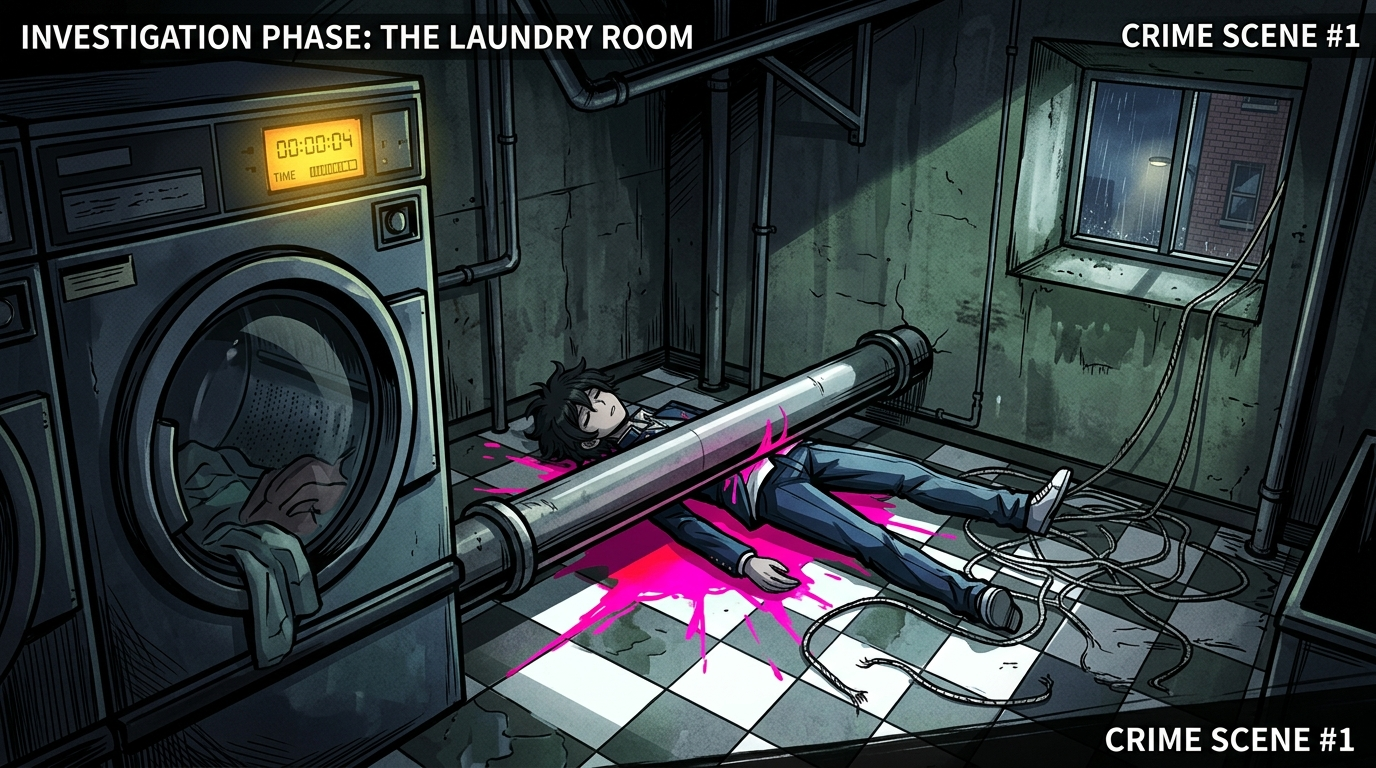
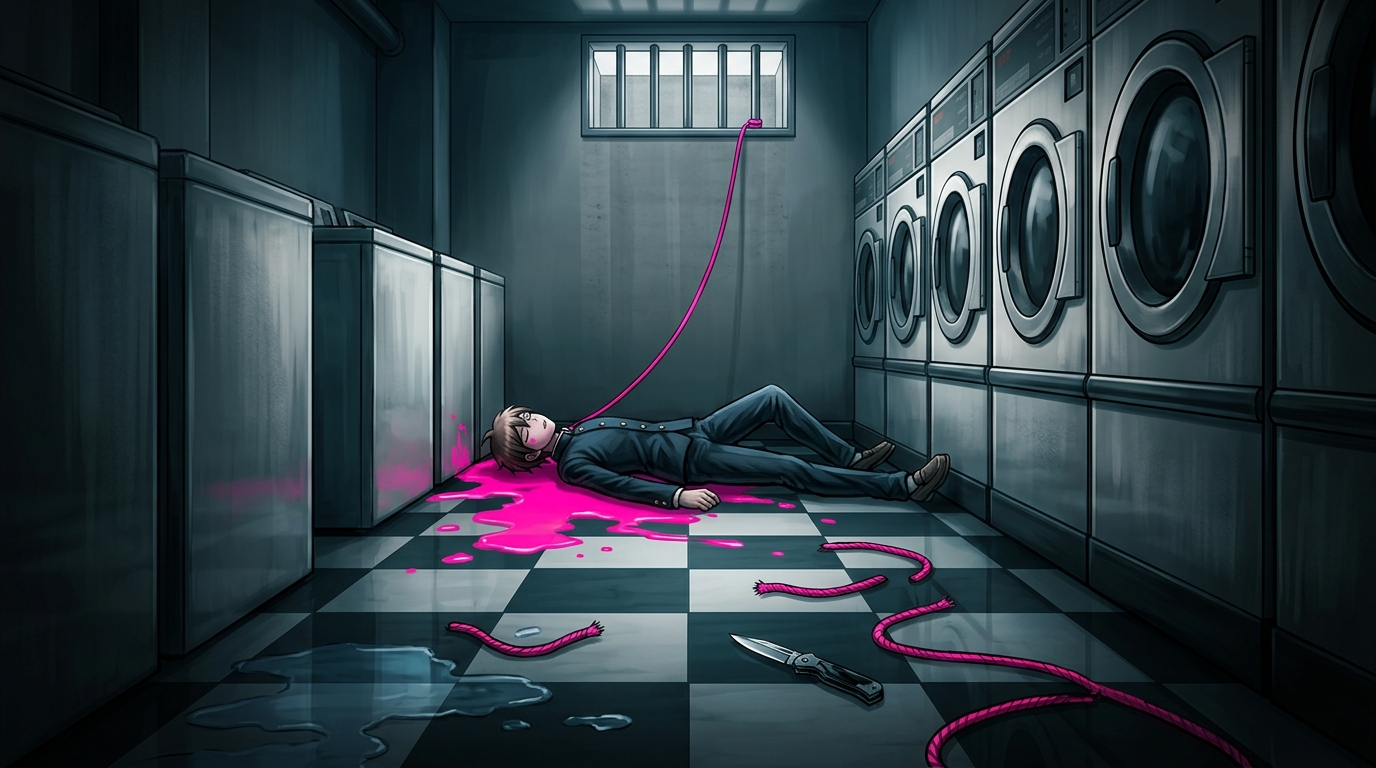
fix(assets): update laundry crime scene (remove pipe, high window showing courtyard wall, face-up corpse toward window, clean of text), straight central corridor with no corner, single-sided dormitory hallway, and add clean normal laundry room

diff --git a/js/client.js b/js/client.js
@@ -5652,7 +5652,8 @@ const ACADEMY_ROOMS_DATA = {
   'laundry': {
     badge: '🧺 จุดเกิดเหตุสำคัญ (CRIME SCENE)',
     title: 'ห้องซักรีด ปีกบริการชั้น 1 (Laundry Room)',
-    image: 'assets/crime_scene_victim_discovery.jpg',
+    image: 'assets/room_laundry.jpg',
+    crimeImage: 'assets/crime_scene_laundry.jpg',
     arch: 'ห้องซักรีดเพดานสูง 4.0 เมตร คานเพดานติดตั้งราวท่อสแตนเลสกลมแขวนผ้าแห้ง (ผิวเรียบมัน ทนแรงดึงสูง) มีเครื่องซักผ้าและเครื่องอบผ้าตั้งเวลา ผนังด้านหลังมีหน้าต่างระบายอากาศบานกระทุ้งเหล็กดัด สูงจากพื้นลานปูนด้านนอก 3.5 เมตร และก๊อกน้ำประปาที่ต่อสายยางลอดออกนอกหน้าต่าง',
     clues: [
       '<strong>EVD-04 (เชือกขาด):</strong> เชือกตากผ้าไนลอนมีรอยมีดตัดเรียบกริบ (ไม่ใช่รอยขาดจากแรงกระชาก)',
@@ -5730,7 +5731,7 @@ const ACADEMY_ROOMS_DATA = {
   'corridor': {
     badge: '🏛 โถงทางเดินกลาง',
     title: 'โถงทางเดินกลาง (Central Corridor)',
-    image: 'assets/item_vending_machine.jpg',
+    image: 'assets/room_central_corridor.jpg',
     arch: 'ทางเดินกว้างเชื่อมต่อทุกโซนในอาคาร มีตู้กดเครื่องดื่มอัตโนมัติ (กินเหรียญ 17:45 น.) และบอร์ดประชาสัมพันธ์โรงเรียน',
     clues: [
       '<strong>ตู้กดน้ำกินเหรียญ (17:45 น.):</strong> PC 1 ยืนก้มหน้าทุบตู้เสียงดัง เปิดช่องให้คนร้ายห่อกระดูกเดินผ่านหลังเข้าครัว!',

diff --git a/public/js/client.js b/public/js/client.js
@@ -5652,7 +5652,8 @@ const ACADEMY_ROOMS_DATA = {
   'laundry': {
     badge: '🧺 จุดเกิดเหตุสำคัญ (CRIME SCENE)',
     title: 'ห้องซักรีด ปีกบริการชั้น 1 (Laundry Room)',
-    image: 'assets/crime_scene_victim_discovery.jpg',
+    image: 'assets/room_laundry.jpg',
+    crimeImage: 'assets/crime_scene_laundry.jpg',
     arch: 'ห้องซักรีดเพดานสูง 4.0 เมตร คานเพดานติดตั้งราวท่อสแตนเลสกลมแขวนผ้าแห้ง (ผิวเรียบมัน ทนแรงดึงสูง) มีเครื่องซักผ้าและเครื่องอบผ้าตั้งเวลา ผนังด้านหลังมีหน้าต่างระบายอากาศบานกระทุ้งเหล็กดัด สูงจากพื้นลานปูนด้านนอก 3.5 เมตร และก๊อกน้ำประปาที่ต่อสายยางลอดออกนอกหน้าต่าง',
     clues: [
       '<strong>EVD-04 (เชือกขาด):</strong> เชือกตากผ้าไนลอนมีรอยมีดตัดเรียบกริบ (ไม่ใช่รอยขาดจากแรงกระชาก)',
@@ -5730,7 +5731,7 @@ const ACADEMY_ROOMS_DATA = {
   'corridor': {
     badge: '🏛 โถงทางเดินกลาง',
     title: 'โถงทางเดินกลาง (Central Corridor)',
-    image: 'assets/item_vending_machine.jpg',
+    image: 'assets/room_central_corridor.jpg',
     arch: 'ทางเดินกว้างเชื่อมต่อทุกโซนในอาคาร มีตู้กดเครื่องดื่มอัตโนมัติ (กินเหรียญ 17:45 น.) และบอร์ดประชาสัมพันธ์โรงเรียน',
     clues: [
       '<strong>ตู้กดน้ำกินเหรียญ (17:45 น.):</strong> PC 1 ยืนก้มหน้าทุบตู้เสียงดัง เปิดช่องให้คนร้ายห่อกระดูกเดินผ่านหลังเข้าครัว!',

diff --git a/web-minigame/public/js/client.js b/web-minigame/public/js/client.js
@@ -5652,7 +5652,8 @@ const ACADEMY_ROOMS_DATA = {
   'laundry': {
     badge: '🧺 จุดเกิดเหตุสำคัญ (CRIME SCENE)',
     title: 'ห้องซักรีด ปีกบริการชั้น 1 (Laundry Room)',
-    image: 'assets/crime_scene_victim_discovery.jpg',
+    image: 'assets/room_laundry.jpg',
+    crimeImage: 'assets/crime_scene_laundry.jpg',
     arch: 'ห้องซักรีดเพดานสูง 4.0 เมตร คานเพดานติดตั้งราวท่อสแตนเลสกลมแขวนผ้าแห้ง (ผิวเรียบมัน ทนแรงดึงสูง) มีเครื่องซักผ้าและเครื่องอบผ้าตั้งเวลา ผนังด้านหลังมีหน้าต่างระบายอากาศบานกระทุ้งเหล็กดัด สูงจากพื้นลานปูนด้านนอก 3.5 เมตร และก๊อกน้ำประปาที่ต่อสายยางลอดออกนอกหน้าต่าง',
     clues: [
       '<strong>EVD-04 (เชือกขาด):</strong> เชือกตากผ้าไนลอนมีรอยมีดตัดเรียบกริบ (ไม่ใช่รอยขาดจากแรงกระชาก)',
@@ -5730,7 +5731,7 @@ const ACADEMY_ROOMS_DATA = {
   'corridor': {
     badge: '🏛 โถงทางเดินกลาง',
     title: 'โถงทางเดินกลาง (Central Corridor)',
-    image: 'assets/item_vending_machine.jpg',
+    image: 'assets/room_central_corridor.jpg',
     arch: 'ทางเดินกว้างเชื่อมต่อทุกโซนในอาคาร มีตู้กดเครื่องดื่มอัตโนมัติ (กินเหรียญ 17:45 น.) และบอร์ดประชาสัมพันธ์โรงเรียน',
     clues: [
       '<strong>ตู้กดน้ำกินเหรียญ (17:45 น.):</strong> PC 1 ยืนก้มหน้าทุบตู้เสียงดัง เปิดช่องให้คนร้ายห่อกระดูกเดินผ่านหลังเข้าครัว!',

diff --git a/index.html b/index.html
@@ -355,7 +355,7 @@
 
           <div class="investigation-loc-card laundry">
             <div style="width:100%; height:110px; border-radius:6px; overflow:hidden; margin-bottom:10px; border:1px solid rgba(244,63,94,0.5);">
-              <img src="assets/crime_scene_victim_discovery.jpg" alt="Laundry" style="width:100%; height:100%; object-fit:cover; display:block;">
+              <img src="assets/crime_scene_laundry.jpg" alt="Laundry Crime Scene" style="width:100%; height:100%; object-fit:cover; display:block;">
             </div>
             <div class="investigation-loc-title">🧺 ห้องซักรีด ปีกบริการชั้น 1 (Crime Scene)</div>
             <div class="investigation-loc-desc" style="font-size:0.85rem; line-height:1.55; color:#cbd5e1;">

diff --git a/public/index.html b/public/index.html
@@ -355,7 +355,7 @@
 
           <div class="investigation-loc-card laundry">
             <div style="width:100%; height:110px; border-radius:6px; overflow:hidden; margin-bottom:10px; border:1px solid rgba(244,63,94,0.5);">
-              <img src="assets/crime_scene_victim_discovery.jpg" alt="Laundry" style="width:100%; height:100%; object-fit:cover; display:block;">
+              <img src="assets/crime_scene_laundry.jpg" alt="Laundry Crime Scene" style="width:100%; height:100%; object-fit:cover; display:block;">
             </div>
             <div class="investigation-loc-title">🧺 ห้องซักรีด ปีกบริการชั้น 1 (Crime Scene)</div>
             <div class="investigation-loc-desc" style="font-size:0.85rem; line-height:1.55; color:#cbd5e1;">

diff --git a/web-minigame/public/index.html b/web-minigame/public/index.html
@@ -355,7 +355,7 @@
 
           <div class="investigation-loc-card laundry">
             <div style="width:100%; height:110px; border-radius:6px; overflow:hidden; margin-bottom:10px; border:1px solid rgba(244,63,94,0.5);">
-              <img src="assets/crime_scene_victim_discovery.jpg" alt="Laundry" style="width:100%; height:100%; object-fit:cover; display:block;">
+              <img src="assets/crime_scene_laundry.jpg" alt="Laundry Crime Scene" style="width:100%; height:100%; object-fit:cover; display:block;">
             </div>
             <div class="investigation-loc-title">🧺 ห้องซักรีด ปีกบริการชั้น 1 (Crime Scene)</div>
             <div class="investigation-loc-desc" style="font-size:0.85rem; line-height:1.55; color:#cbd5e1;">
